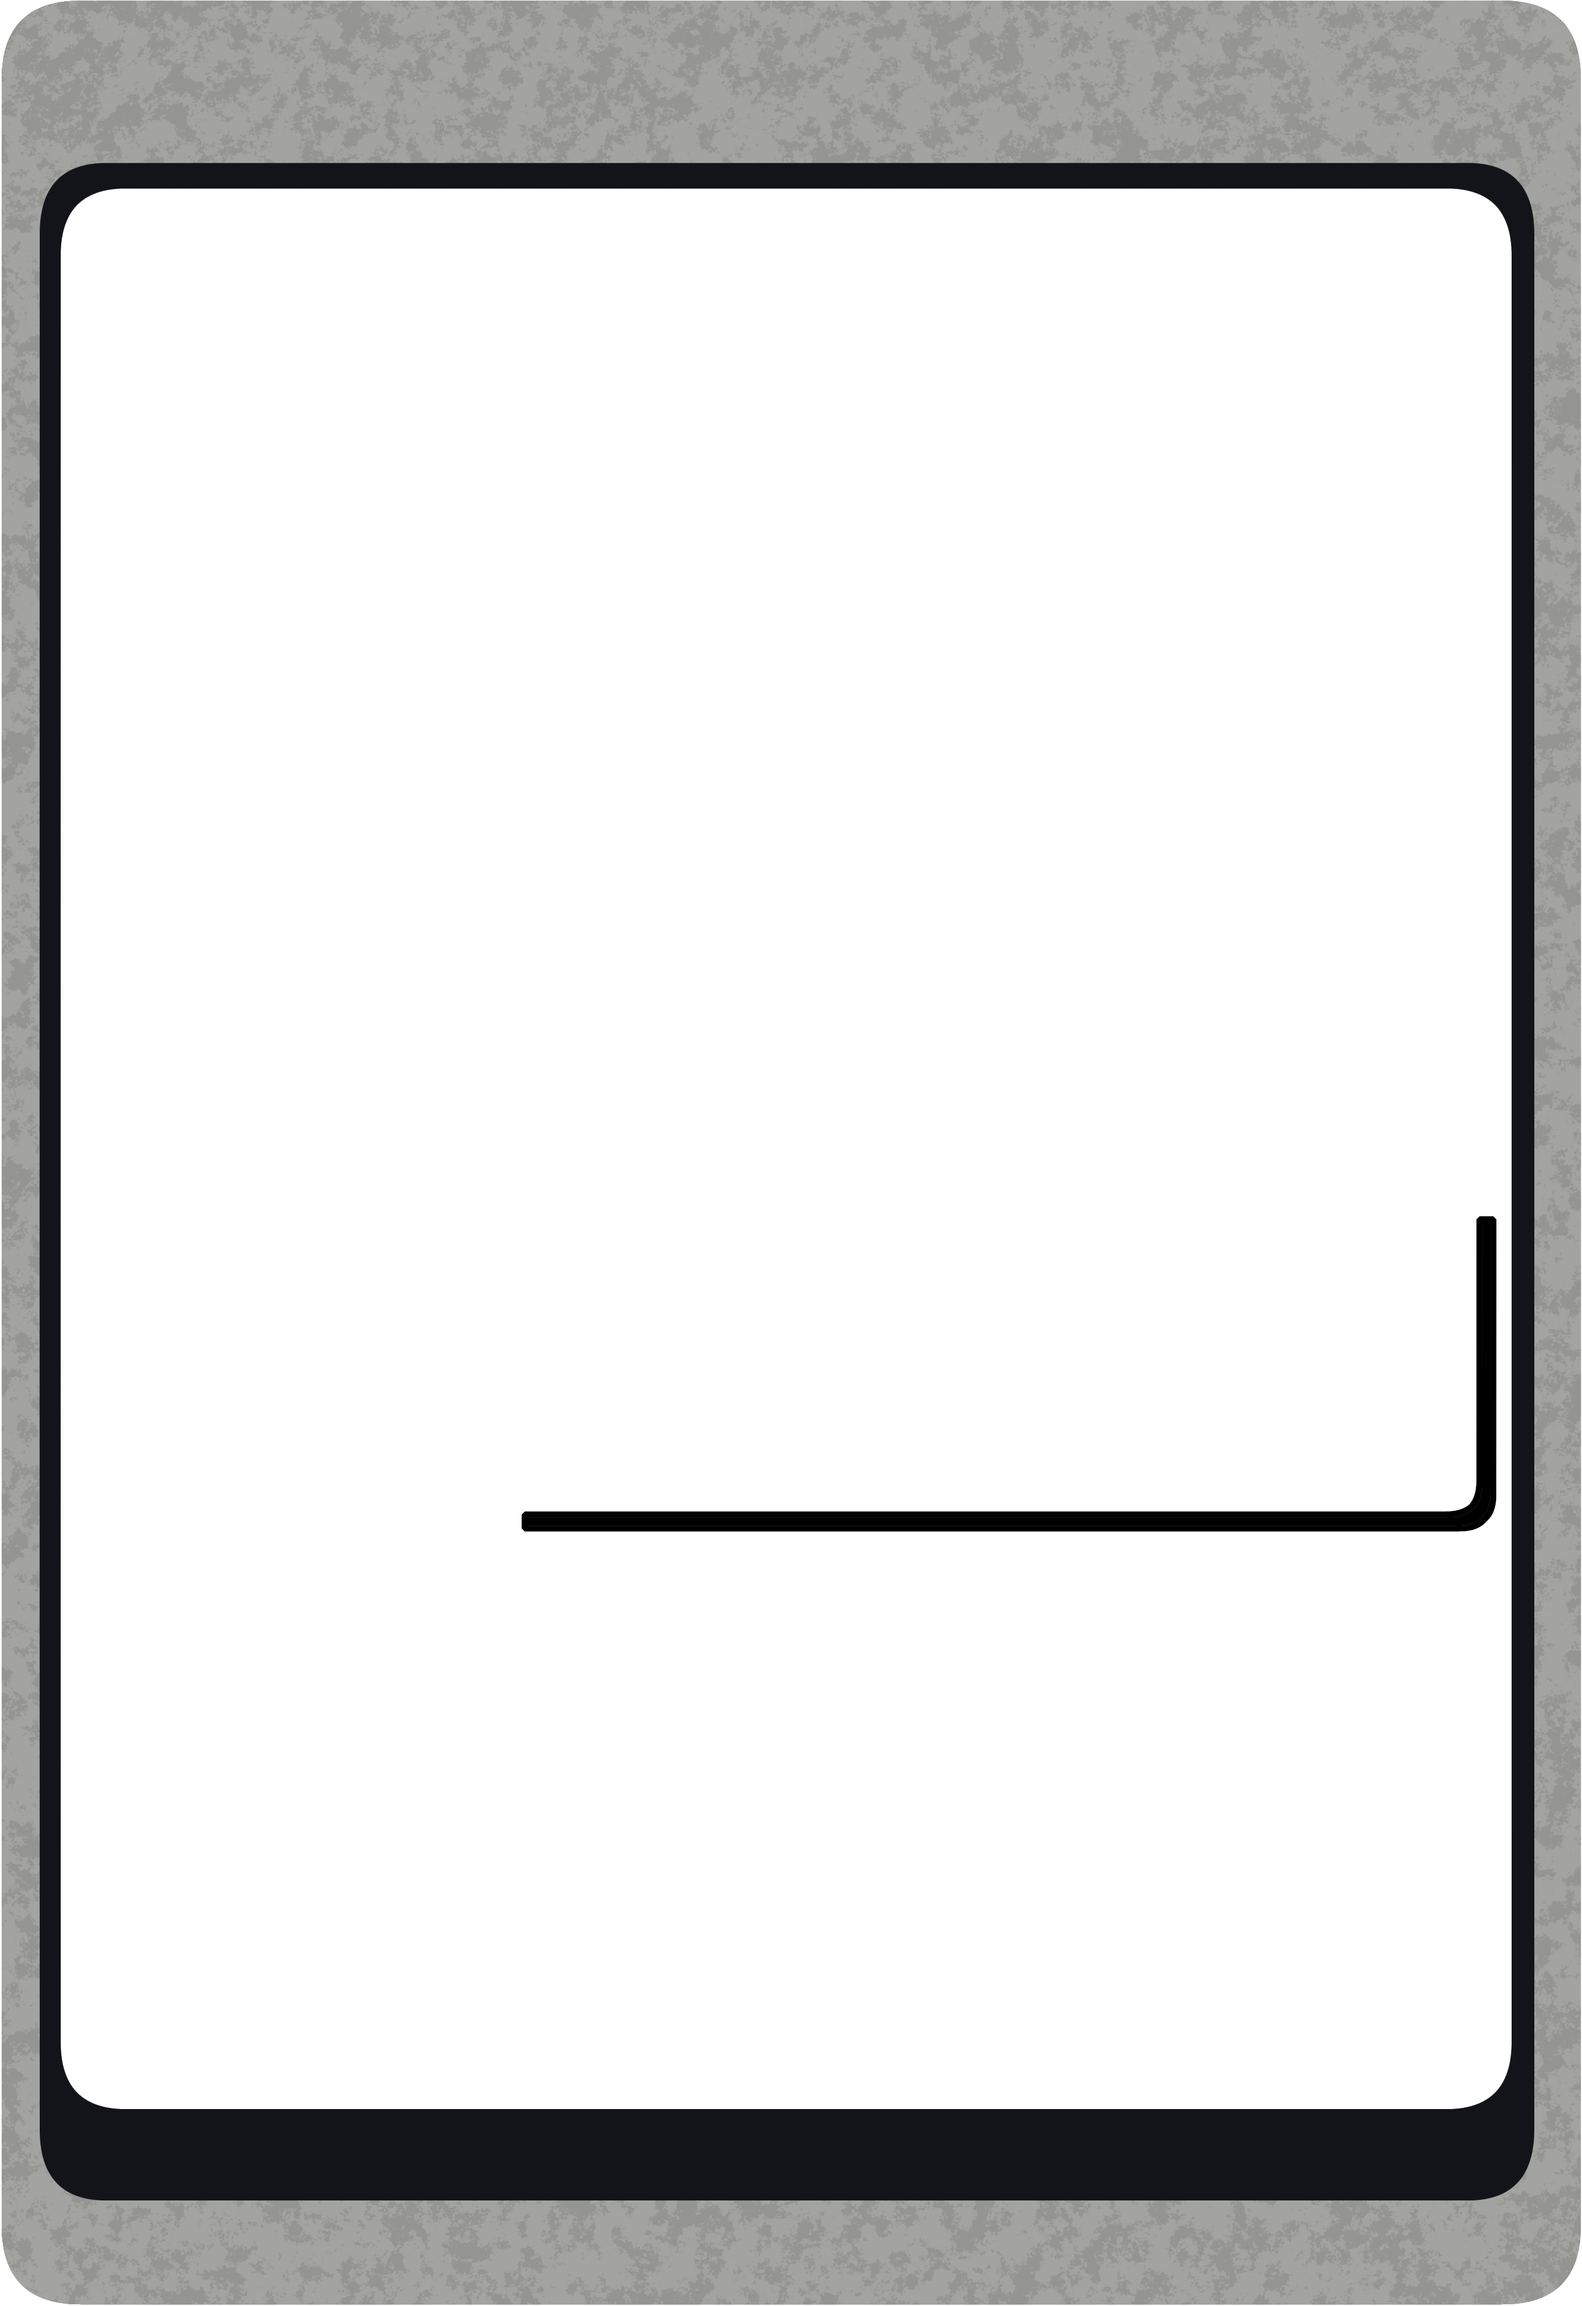
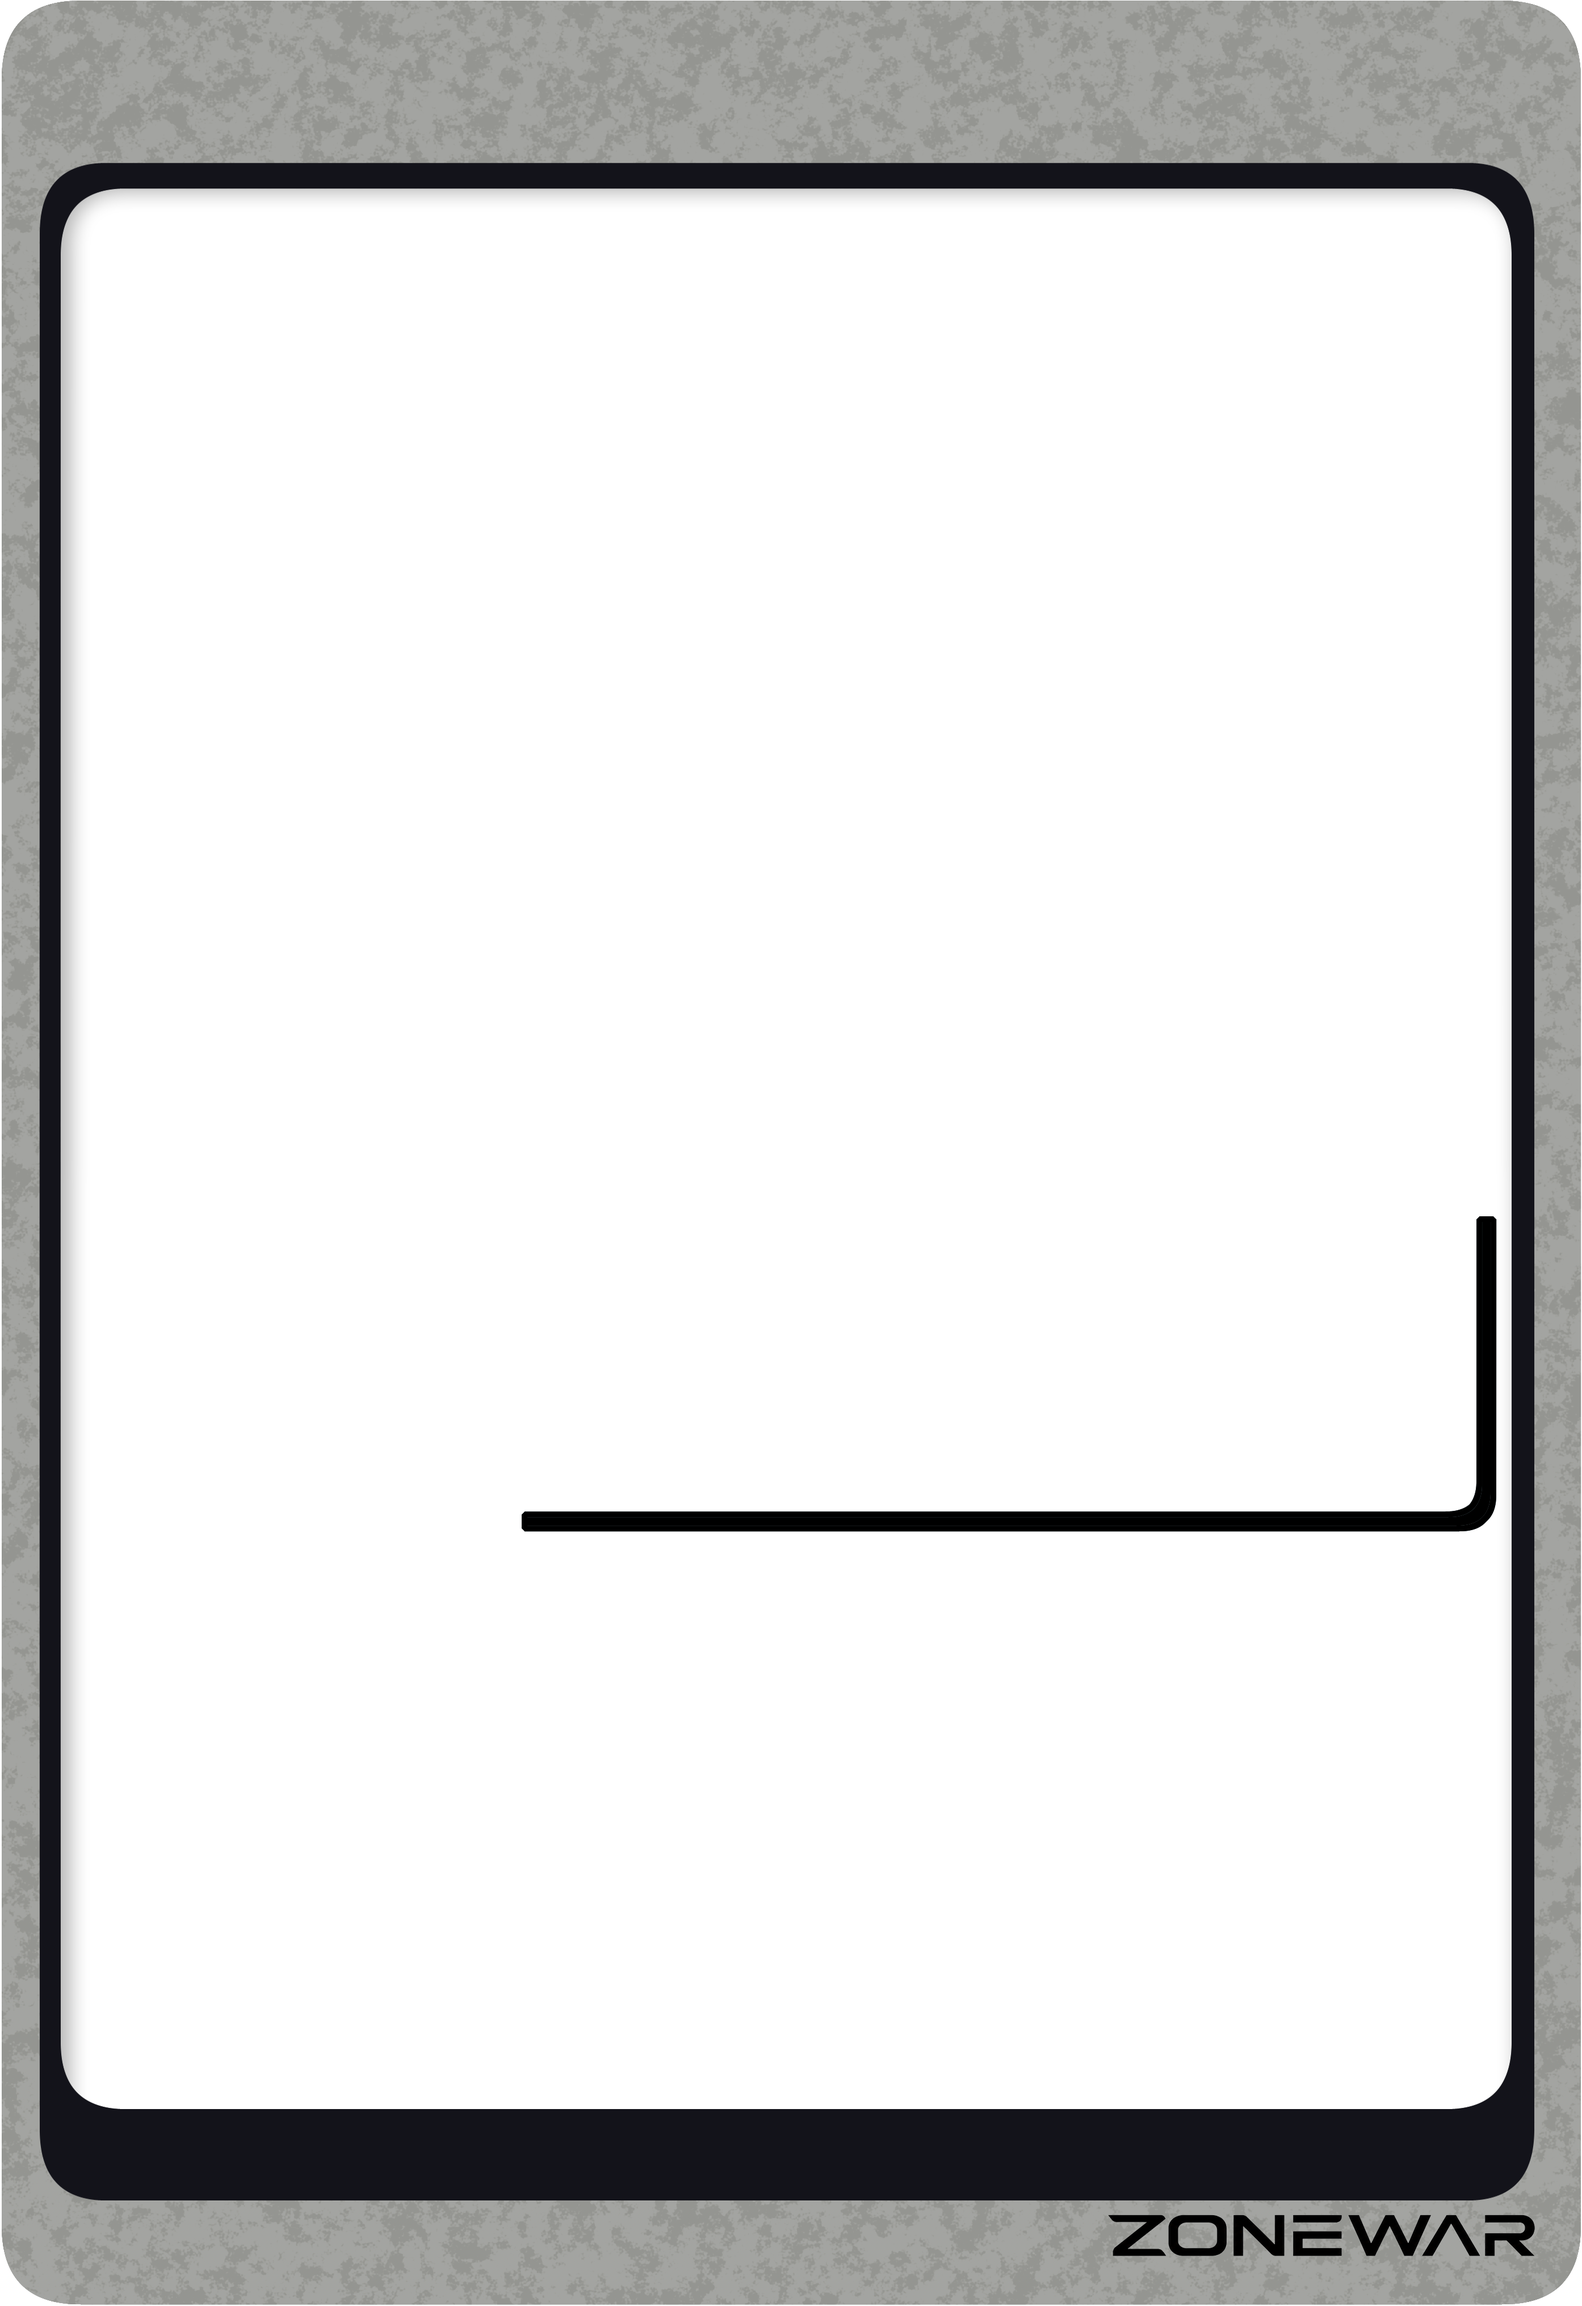
更新域主与域灵基础版型

Changed region(s): [[0.0624, 0.062, 0.9053, 0.093], [0.0312, 0.093, 0.0624, 0.8993], [0.6868, 0.9614, 0.9677, 0.9924]]

diff --git a/src/components/CardPreview.tsx b/src/components/CardPreview.tsx
@@ -370,7 +370,7 @@ export const CardPreview = React.forwardRef<HTMLDivElement, {
       <div
         className={cn(
           "absolute top-[72%] left-[6%] bottom-[9%] py-0.5 font-medium overflow-hidden z-10 break-words whitespace-pre-wrap [word-break:normal] [overflow-wrap:break-word] [text-justify:inter-character] [text-wrap:pretty]",
-          data.cardType === 'master' ? 'w-[335px]' : 'right-[34%]',
+          data.cardType === 'master' ? 'w-[335px]' : data.cardType === 'trace' ? 'w-[333px]' : 'right-[34%]',
           data.cardType === 'master' ? 'text-white' : 'text-neutral-900'
         )}
         style={{

diff --git a/src/types.ts b/src/types.ts
@@ -68,8 +68,8 @@ export interface SavedCard {
 
 export const INITIAL_ASSETS: AssetLibrary = {
   templates: {
-    master: "/assets/card-templates/master-template.png",
-    spirit_normal: "/assets/card-templates/spirit-template.png?v=20260723-spirit-base",
+    master: "/assets/card-templates/master-template.png?v=20260726-master-base",
+    spirit_normal: "/assets/card-templates/spirit-template.png?v=20260726-spirit-base",
     spirit_resonance: "/assets/card-templates/resonance-template.png?v=20260724-resonance-card2",
     trace: "/assets/card-templates/trace-template.png?v=20260726-trace-base-2",
   },
